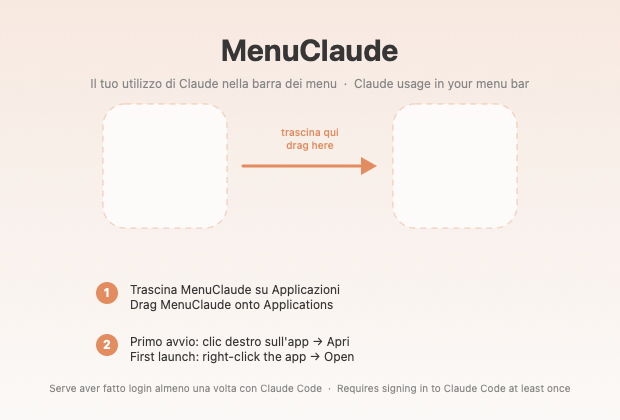
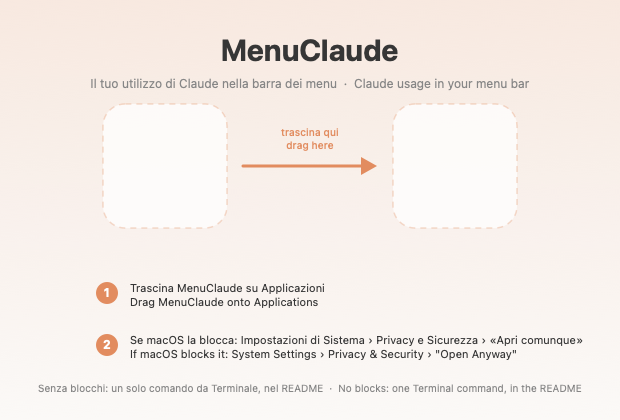
Fix installation: right-click → Open no longer works on macOS 15+
A friend could not install 1.0.1 and reported that right-clicking and
choosing Open did nothing. He was right and the README was wrong: macOS
15 Sequoia removed that bypass for apps without a registered developer
signature. The dialog he saw offers only "Move to Trash" and "Done" —
there is no way through from Finder at all. Confirmed on macOS 26.5.

Two fixes. install.sh installs from a Terminal one-liner, which sidesteps
the block completely rather than teaching people to click past it: files
fetched with curl are never flagged as quarantined, so Gatekeeper has
nothing to act on. It uses only tools present on a clean Mac — the first
draft parsed the releases API with python3, which on a machine without
the developer tools is a stub that pops up the Xcode installer, exactly
the kind of dead end this is meant to avoid. Verified end to end: the app
landed in /Applications with no quarantine attribute and launched.

For people who prefer the DMG, the instructions now point at System
Settings › Privacy & Security › Open Anyway, in both READMEs and on the
DMG background itself, which was still showing the obsolete step.

Also documents when the Keychain prompt reappears, since the answer was
not obvious: the grant is tied to the signed binary's identity, which for
an ad-hoc signature is its hash, so a self-update looks like a different
app and asks once more.

diff --git a/Tools/make-dmg-background.swift b/Tools/make-dmg-background.swift
@@ -107,9 +107,11 @@ func draw(scale: CGFloat) -> Data? {
     ).draw(in: NSRect(x: arrowStart.x, y: slotCenterY() + 10, width: arrowEnd.x - arrowStart.x, height: 30))
 
     // I due passi, sotto le icone: il secondo è quello che salva dalle domande.
+    // Da macOS 15 il clic destro → Apri non aggira più il blocco per le app
+    // non firmate: l'unica strada senza Terminale è Impostazioni di Sistema.
     let steps: [(String, String)] = [
         ("1", "Trascina MenuClaude su Applicazioni\nDrag MenuClaude onto Applications"),
-        ("2", "Primo avvio: clic destro sull'app → Apri\nFirst launch: right-click the app → Open"),
+        ("2", "Se macOS la blocca: Impostazioni di Sistema › Privacy e Sicurezza › «Apri comunque»\nIf macOS blocks it: System Settings › Privacy & Security › \"Open Anyway\""),
     ]
     var y: CGFloat = 118
     for (number, text) in steps {
@@ -131,15 +133,15 @@ func draw(scale: CGFloat) -> Data? {
         NSAttributedString(
             string: text,
             attributes: [
-                .font: NSFont.systemFont(ofSize: 12, weight: .regular),
+                .font: NSFont.systemFont(ofSize: 11, weight: .regular),
                 .foregroundColor: ink,
             ]
-        ).draw(in: NSRect(x: 130, y: y - 14, width: 420, height: 34))
+        ).draw(in: NSRect(x: 130, y: y - 15, width: 470, height: 36))
         y -= 52
     }
 
     NSAttributedString(
-        string: "Serve aver fatto login almeno una volta con Claude Code  ·  Requires signing in to Claude Code at least once",
+        string: "Senza blocchi: un solo comando da Terminale, nel README  ·  No blocks: one Terminal command, in the README",
         attributes: [
             .font: NSFont.systemFont(ofSize: 10, weight: .regular),
             .foregroundColor: faded,

diff --git a/README.it.md b/README.it.md
@@ -45,49 +45,56 @@ dipendenza.
 
 ## Installazione
 
-### 1. Scarica e trascina
+### Il modo semplice (consigliato)
 
-Prendi `MenuClaude.dmg` dall'[ultima release](../../releases/latest) e aprilo.
-Trascina MenuClaude sulla cartella Applicazioni.
+Incolla questo nel Terminale:
+
+```bash
+curl -fsSL https://raw.githubusercontent.com/ileonemil/MenuClaude/main/install.sh | bash
+```
+
+Scarica l'ultima versione, mette MenuClaude in `/Applications` e la avvia.
+**Nessun avviso di sicurezza da superare**: i file scaricati con `curl` non
+vengono mai contrassegnati come "in quarantena", quindi Gatekeeper non ha nulla
+da bloccare. Lo script è [qui](install.sh) se vuoi leggerlo prima; usa solo
+strumenti già presenti in macOS.
+
+### Il modo manuale
+
+Scarica `MenuClaude.dmg` dall'[ultima release](../../releases/latest), aprilo e
+trascina MenuClaude sulla cartella Applicazioni.
 
 <img src="docs/images/dmg-window.png" width="480" alt="La finestra del DMG">
 
-### 2. Primo avvio: clic destro → Apri
+A quel punto macOS si rifiuterà di aprirla dicendo che *"non è in grado di
+verificare che MenuClaude non contenga malware"*, offrendo solo **Sposta nel
+Cestino** e **Fine**. L'app non ha niente che non va: semplicemente non è
+firmata da uno sviluppatore Apple registrato. Per farla passare:
 
-**Questo passaggio conta.** MenuClaude non è firmata da uno sviluppatore Apple
-registrato, quindi con un doppio clic macOS si rifiuta di aprirla — a volte con
-un messaggio che dice che l'app è danneggiata. Non lo è.
+**Impostazioni di Sistema → Privacy e Sicurezza →** scorri fino a Sicurezza →
+accanto a *"MenuClaude è stata bloccata…"* premi **Apri comunque** → conferma.
 
-Apri la cartella Applicazioni, **fai clic destro su MenuClaude, scegli Apri**,
-poi conferma nella finestra che compare. Va fatto una volta sola: da lì in poi
-si apre normalmente.
+> Le guide più vecchie dicono di fare clic destro sull'app e scegliere Apri.
+> **Da macOS 15 Sequoia non funziona più**: per le app non firmate quella
+> scorciatoia non compare, e senza Terminale l'unica strada sono le
+> Impostazioni di Sistema. Firmare un'app in modo che macOS si fidi a prima
+> vista richiede l'iscrizione all'Apple Developer Program (99 $/anno), che
+> questo strumento gratuito non ha.
 
-> Perché: firmare un'app in modo che macOS si fidi al primo avvio richiede
-> l'iscrizione all'Apple Developer Program (99 $/anno). Questo è uno strumento
-> gratuito condiviso tra amici, quindi non è firmata. Il clic destro è il modo
-> che macOS mette a disposizione per dire "so da dove viene".
+### Poi
 
-### 3. Consenti l'accesso al portachiavi — scegli "Sempre"
+Quando macOS chiede l'accesso al portachiavi scegli **"Sempre"**, non
+"Consenti". "Consenti" autorizza una singola lettura e il pannello ricompare;
+"Sempre" aggiunge l'app alla lista di quelle autorizzate.
 
-MenuClaude legge il token OAuth che Claude Code salva nel portachiavi di login,
-perché è quello che dimostra ad Anthropic di quale account riportare l'utilizzo.
-macOS chiederà il permesso la prima volta.
-
-**Scegli "Sempre", non "Consenti".** "Consenti" autorizza una singola lettura e
-il pannello ricompare; "Sempre" aggiunge l'app alla lista di quelle autorizzate
-e non lo rivedi più.
-
-### 4. Consenti le notifiche (facoltativo)
-
-Se vuoi essere avvisato quando ti avvicini ai limiti, accetta la richiesta di
-notifiche. Puoi cambiare idea dopo, da **Avvisi** nel menu.
-
-### 5. Avvio automatico (facoltativo)
-
-Clic destro sull'icona nella barra dei menu → **Avvia al login**.
+Se vuoi, accetta le notifiche (servono per gli avvisi sulle soglie) e attiva
+**Avvia al login** dal menu.
 
 L'icona sta nella barra dei menu, in alto a destra. Non compare mai nel Dock.
 **Clic sinistro** apre il pannello, **clic destro** apre le opzioni.
+
+Da qui in poi agli aggiornamenti pensa l'app — vedi
+[Aggiornamenti](#aggiornamenti).
 
 ## Da dove arrivano i dati
 
@@ -144,6 +151,20 @@ aggiornamento; il file arriva via HTTPS dalle release di questo stesso
 repository e la sua versione viene verificata prima di sostituire qualcosa. Se
 MenuClaude si trova in una cartella dove non può scrivere, lo dice e ti chiede
 di spostarla in Applicazioni.
+
+### Quante volte macOS chiede il portachiavi
+
+L'autorizzazione è legata all'*identità del binario firmato*. Con la firma
+ad-hoc quell'identità è l'hash del binario, quindi ogni build nuova è uno
+sconosciuto: il pannello compare una volta alla prima installazione e una volta
+dopo ogni aggiornamento automatico. Basta scegliere «Sempre» ogni volta.
+
+Per rendere il permesso permanente anche tra un aggiornamento e l'altro, firma
+le build con un certificato personale — vedi [Compilare dai
+sorgenti](#compilare-dai-sorgenti).
+
+Da sapere anche che leggere la voce da Terminale (`security find-generic-password`)
+fa comparire una richiesta a parte, perché `security` è un altro programma.
 
 ## Privacy
 
@@ -228,10 +249,14 @@ ultimi numeri buoni.
 adesso l'app concede un solo tentativo manuale per attesa e ignora gli altri.
 L'attesa sopravvive anche alla chiusura e riapertura dell'app.
 
-### macOS dice che l'app è danneggiata
+### macOS dice che non può verificare l'app
 
-Non lo è: è il messaggio delle app non firmate. Clic destro sull'app → **Apri**.
-Vedi il [passaggio 2](#2-primo-avvio-clic-destro--apri).
+È previsto: non è firmata da uno sviluppatore Apple registrato. O usi
+l'[installer da Terminale](#il-modo-semplice-consigliato), che evita del tutto
+il blocco, oppure vai in **Impostazioni di Sistema → Privacy e Sicurezza → Apri
+comunque**.
+
+Il clic destro → Apri non funziona più da macOS 15 in poi.
 
 ### Le notifiche non arrivano
 

diff --git a/README.md b/README.md
@@ -45,49 +45,55 @@ That's it. No account to create, no configuration file, no dependencies.
 
 ## Install
 
-### 1. Download and drag
+### The easy way (recommended)
 
-Grab `MenuClaude.dmg` from the [latest release](../../releases/latest) and open
-it. Drag MenuClaude onto the Applications folder.
+Paste this into Terminal:
+
+```bash
+curl -fsSL https://raw.githubusercontent.com/ileonemil/MenuClaude/main/install.sh | bash
+```
+
+It downloads the latest release, puts MenuClaude in `/Applications` and starts
+it. **No security warnings to click through** — files fetched with `curl` are
+never marked as quarantined, so Gatekeeper has nothing to block. The script is
+[right here](install.sh) if you want to read it first; it uses nothing but
+tools that ship with macOS.
+
+### The manual way
+
+Download `MenuClaude.dmg` from the [latest release](../../releases/latest),
+open it, and drag MenuClaude onto Applications.
 
 <img src="docs/images/dmg-window.png" width="480" alt="The DMG window">
 
-### 2. First launch: right-click → Open
+Then macOS will refuse to open it, saying it *"cannot verify that MenuClaude is
+free of malware"*, offering only **Move to Trash** and **Done**. The app is
+fine — it simply isn't signed by a registered Apple developer. To let it
+through:
 
-**This step matters.** MenuClaude is not signed by a registered Apple developer,
-so a normal double-click makes macOS refuse to open it — sometimes with a
-message suggesting the app is damaged. It isn't.
+**System Settings → Privacy & Security →** scroll down to Security → next to
+*"MenuClaude was blocked…"* click **Open Anyway** → confirm.
 
-Open your Applications folder, **right-click MenuClaude, choose Open**, then
-confirm in the dialog. You only ever have to do this once; afterwards it opens
-normally.
+> Older guides say to right-click the app and choose Open. **That stopped
+> working in macOS 15 Sequoia**: for unsigned apps the shortcut no longer
+> appears, and System Settings is the only way through without a Terminal.
+> Signing an app so macOS trusts it on sight needs an Apple Developer Program
+> membership (99 USD/year), which this free tool doesn't have.
 
-> Why: signing an app so macOS trusts it on first launch requires an Apple
-> Developer Program membership (99 USD/year). This is a free tool shared between
-> friends, so it isn't signed. The right-click is macOS's built-in way of saying
-> "I know where this came from."
+### Then
 
-### 3. Allow Keychain access — choose "Always Allow"
+When macOS asks for Keychain access, choose **"Always Allow"**, not "Allow".
+"Allow" grants a single read and the prompt keeps coming back; "Always Allow"
+adds the app to the authorised list.
 
-MenuClaude reads the OAuth token that Claude Code stores in your login Keychain,
-because that's what proves to Anthropic which account to report usage for. macOS
-will ask permission the first time.
-
-**Choose "Always Allow", not "Allow".** "Allow" grants a single read and the
-prompt comes back; "Always Allow" adds the app to the authorised list and you
-never see it again.
-
-### 4. Allow notifications (optional)
-
-If you want alerts when you approach your limits, accept the notification
-prompt. You can change your mind later from **Alerts** in the menu.
-
-### 5. Launch at login (optional)
-
-Right-click the menu bar icon → **Launch at login**.
+Optionally accept notifications (for the threshold alerts), and turn on
+**Launch at login** from the menu.
 
 The icon lives in the menu bar, top right. It never appears in the Dock.
 **Left-click** opens the panel, **right-click** opens the options.
+
+Updates from here on are handled by the app itself — see
+[Updating](#updating).
 
 ## Where the data comes from
 
@@ -143,6 +149,19 @@ what stops macOS from demanding the right-click-Open dance on every update; it
 comes over HTTPS from this repository's own releases and its version is checked
 before anything is replaced. If MenuClaude is somewhere it cannot write, it
 says so and asks you to move it to Applications.
+
+### How often macOS asks for the Keychain
+
+The authorisation is tied to the *identity of the signed binary*. With an ad-hoc
+signature that identity is the binary's hash, so every new build is a stranger:
+you get the prompt once on first install and once more after each self-update.
+Choosing "Always Allow" each time is all it takes.
+
+To make the grant permanent across updates, sign your builds with a personal
+certificate — see [Build from source](#build-from-source).
+
+Note also that reading the entry from a Terminal (`security find-generic-password`)
+prompts separately, as `security` is a different program.
 
 ## Privacy
 
@@ -225,10 +244,13 @@ in the meantime.
 app now allows one manual retry per waiting period and ignores the rest. The
 wait also survives quitting and reopening the app.
 
-### macOS says the app is damaged
+### macOS says it can't verify the app
 
-It isn't — it's the unsigned-app message. Right-click the app → **Open**. See
-[step 2](#2-first-launch-right-click--open).
+Expected: it isn't signed by a registered Apple developer. Either use the
+[Terminal installer](#the-easy-way-recommended), which avoids the block
+entirely, or go to **System Settings → Privacy & Security → Open Anyway**.
+
+Right-clicking and choosing Open no longer works on macOS 15 and later.
 
 ### Notifications don't arrive
 
